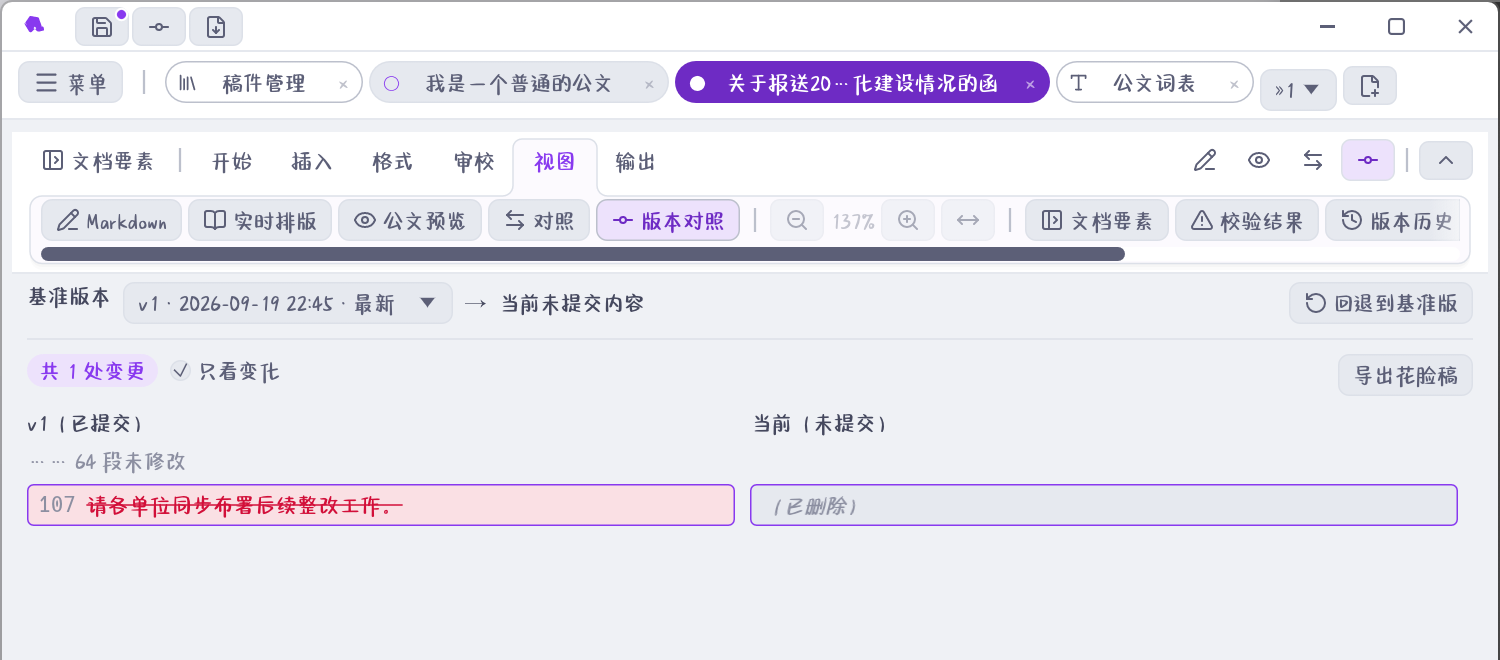
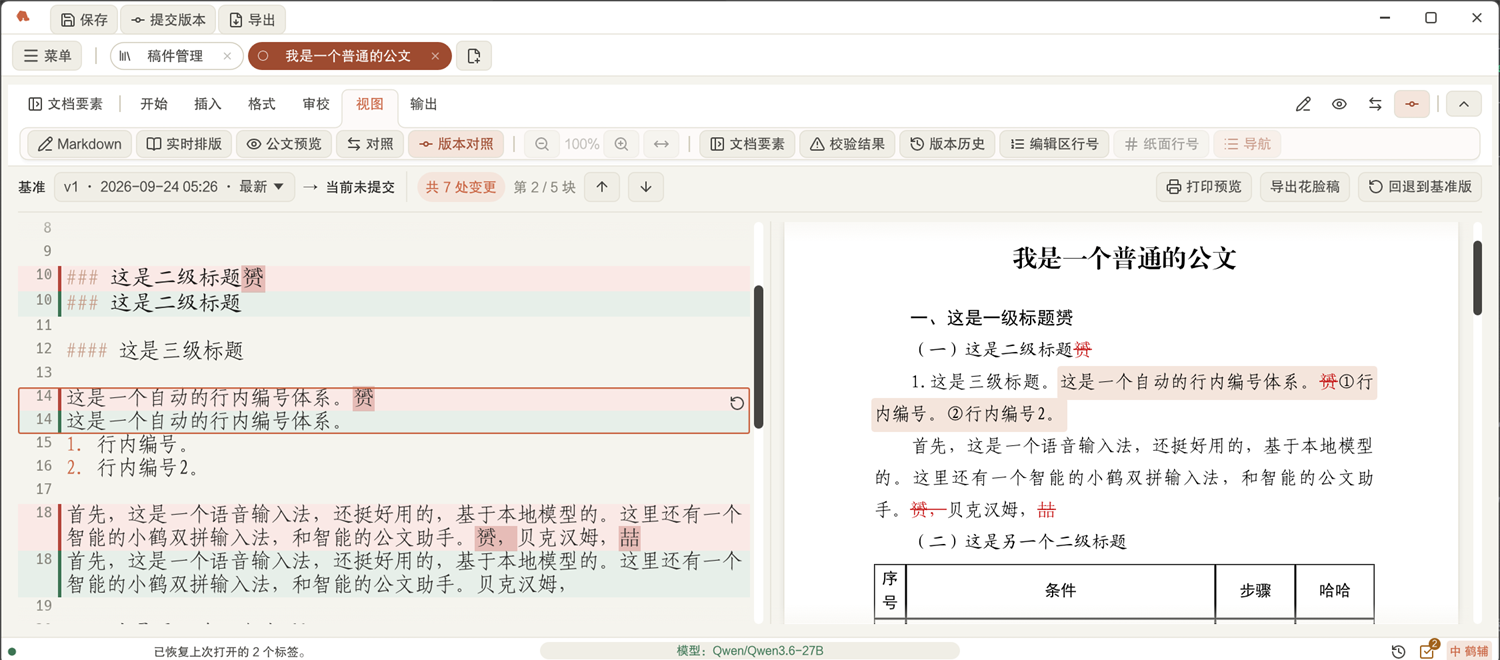
docs: 同步 README 与使用帮助至 v0.6.5
- 内嵌帮助 assets/help/ 落后于 docs/help/ 副本三个文件（居中与居右、
  网络代理两节只在 docs 侧），本次逐字同步；
- 版本对照与花脸稿：10-versions 重写两节并换新界面截图，02-ui、06-editor、
  07-ribbon 的视图表述对齐，04-workflow、c-glossary 的删线/方框说法同步，
  a-shortcuts 补 F7 / Shift+F7；
- 11-export 新增 PDF 查看器一节，修正研究报告「不出 .docx」的旧说法；
- 19-manuscripts 补外部文本编码自动识别；
- 20-settings 更正为十三个分区、五摞分组（原写「分三组」且组名与界面不符）；
- README：版本管理、PDF 预览、导入、AI 三节更新，项目结构补 skills/，
  代码行数 9.7 万 → 10.9 万、测试数 1000+ → 1100+；
- docs/manual.md 第 20 章描述、docs/install.md 的 src/ime.rs 路径修正。

diff --git a/docs/release-notes/v0.6.5.md b/docs/release-notes/v0.6.5.md
@@ -1,0 +1,69 @@
+## 公文助手 v0.6.5
+
+本版本把「版本变更与花脸稿」改造推进到第 ③ 期：起草页的版本对照变成**左栏可编辑统一 diff + 右栏花脸稿预览**，改稿痕迹改为**红色直删除线 / 蓝色方框就地标注**，每个变更块可以一键还原。同一版里还落地了网络代理、AI 技能包、PDF 查看器单页翻页、正文居中 / 居右、导入编码自动识别等一批用户可见能力。
+
+### 版本对照与花脸稿（第 ① — ③ 期）
+
+- **花脸稿改为就地标注**。删掉的字**留在原位画红色直删除线**（`#C00000`，字本身也染红），新增的字**就地套蓝色方框**（`#1F4E9E`、0.5pt，框内保持正文色）；新增框**随正文断行**（跨行在行尾开口、整段新增只在首尾各一笔竖边）。删除的标题、列表项不再排成标题 / 列表行，避免自动编号重复。预览、Word、PDF 三端样式一致，并有「预览片段序列 = DOCX run 序列 = TeX 片段序列」的三方一致性测试锁住。
+- **新增视觉 diff 引擎**（`src/visual_diff/`，纯函数，不碰存储与 UI）：jieba 分词，日期、数字 + 单位、文号、公式各作一个整体 token；先抵消相邻「删 X、增 X」，再按区域吸收夹缝、在句读处切开、做整句归并；段落移动识别并出「移来」注记；标题与列表编号不参与比较；表格逐格 / 整行 / 整表；公文要素整体替换。除逐条规则的单元测试外，另有生成式不变式——400 组真实公文句子随机增删改，逐字核对「去新增 == 旧版、去删除 == 新版」。
+- **版本对照视图重做**。左栏**既是编辑器也是 diff**：删除 / 被改写的旧行以红底只读行画在原位（布局器在 `TextEdit` 的 galley 里开空隙塞进去），新增 / 改写后的行铺绿底，真正改掉的字再加深；行号槽写新 / 旧行号与增删色条；只改空行也算一处变更，显示淡色「（空行）」。每个变更块右上角出「**还原**」，一键换回基准版内容，`Ctrl+Z` 一次撤回。右栏是**花脸稿预览**，与导出 PDF / Word 吃同一份带哨兵 Markdown，「预览 = 导出」由构造保证。
+- **两栏联动与工具栏**：点左栏变更 → 右栏滚到对应块并常亮，双击切回 Markdown 源码定位；点右栏带标注的块 → 左栏聚焦；悬停互相淡色高亮；`F7` 下一处、`Shift+F7` 上一处，首尾循环。工具栏含基准版下拉、`共 N 处变更`、`第 X / N 块`、**回退到基准版**（二次确认）、**导出花脸稿**、**打印预览**（后台真编译 PDF，用内置查看器打开，不在导出目录留文件）；左栏顶部另有「要素变化」卡片。**已发布 / 归档的稿件只读**，左栏换成只读统一视图（多一个「折叠未改动」，导航按行计）。
+- **边改边看不卡**。基准快照与备注只在换稿件 / 换基准版时读一次库；代码 diff 按正文哈希与要素变化重算；花脸稿首帧同步算，之后后台线程 + 150ms 防抖，结果按「稿件 + 基准版 + 正文哈希」收取，过期结果丢弃。2000 段、100 个变更块的实测：进对照模式首帧 255ms（提速前 13.9s），打字帧中位 22ms。
+- **一轮真实稿件实测后的修正**（括号里是新增的回归测试）：移动识别混用下标导致越界闪退；研究报告 TeX 后处理的「新增里带行内公式编译失败 / 加粗只粗第一个字 / 改过的独立公式印出源码」三处；删除侧的公式被转义成字面字符；研究报告 Word 标记在加粗、公式处中断；PDF 里删掉的字是黑色；加 / 删一个标题把下面没动的正文整段删了又加；远处删一段与增一段被拼成一处整句替换；新增框竖边与字断开到两行、四角合不上。
+
+### 网络代理
+
+- **设置页新增「网络代理」分区**（智能助手组）。起草、文字复核、知识库 embedding / rerank 与模型探测统一走 `src/net.rs` 构建的客户端，代理只在一处生效。三种连接方式：**直连**（环境变量也不认）、**跟随系统**（默认，先读 `HTTPS_PROXY` / `HTTP_PROXY` / `ALL_PROXY`，没设再读 Windows 系统代理；不支持 PAC）、**自定义代理**（`http`、`https`、`socks4`、`socks4a`、`socks5`、`socks5h`，可带用户名密码，另有「不走代理」的域名 / IP / 网段列表）。
+- **本机地址始终直连**（`localhost`、`127.0.0.0/8`、`::1`），本地 LM Studio / Ollama 不受代理影响；自定义代理没填地址时直接报错，不静默退回直连；代理改完不必保存就能点「测试连接」验证。设置版本对比里地址中的密码打码。
+
+### AI 技能包（Agent Skill）
+
+- **把起草页的 Markdown 公文子集、七种文种的正文规则、行文规范、各文种模板与一个自检脚本打成 `gongwen-markdown` 技能包**，装进外部 AI 工具后，它们写出的 `.md` 可以直接粘到起草页，预览与导出与手写稿件完全一样。设置页「上手指引」可导出单文件 `gongwen-markdown.skill`（zip）或技能文件夹，安装包里也随附一份（macOS 在应用包的 `Contents/Resources/skills/`）；帮助文档给出 Claude Code、Codex、OpenCode、pi 等工具的 skills 目录对照表。
+- 文档锚点语法改为 `{#id}`、行内脚注改为 `[^id]:(内容)`；`skill_pack::FILES` 登记新增文件，测试检查文档与清单两边一致。
+
+### 研究报告：目录与页码
+
+- **目录改由 `<!-- [目录] -->` 标记触发**（研报分区新增「目录」按钮，已在稿中则不重复插入），排在标记所在位置、另起一页，**单用大写罗马页码 I、II、III**，不占正文页号。目录插在摘要与正文之间时，**摘要改用小写罗马页码 i、ii、iii**，目录之后正文从 1 起；目录在最前时正文从 1 起；目录在正文中间时接着目录之前的页号数。AI 润色提示同步要求原位保留目录标记，公文路径忽略该标记。
+- **Word 版补齐页码**，与 PDF 同一套分节编号：封面不编页码，各节页脚居中「— N —」（四号），目录大写罗马、摘要小写罗马、正文阿拉伯；目录改写成段落里的 TOC 域（打开后按提示更新域即可生成条目）。目录在正文中间时页码靠域公式接续，Microsoft Word 能正确显示，LibreOffice 等不支持嵌套域公式的软件显示不对。
+
+### 排版与编辑器
+
+- **正文支持居中与居右整行标记**（`<!-- [居中] -->` / `<!-- [居右] -->`，也认 `右对齐` 与英文 `center` / `right`）：标记下方**直到空行**为止逐行成行、不缩进，只认行内格式；功能区「格式」分区新增「居中」「居右」按钮，选中几行即插标记、再点取消，光标在区内按钮亮起。预览、Word、PDF 三处排法一致，各文种（含红头呈批件、研究报告）都支持。
+- **研究报告导出支持反斜杠转义**：`\_`、`\*` 不再印成 `\textbackslash{}`，`\$价格$` 不再被拆成多余反斜杠加一个公式；行内公式的配对规则与起草页预览对齐，行内 `$$x$$` 整体按文本处理。anydoc 0.2 导入的 Word 正文带 `\$` 这类转义，此前最容易碰到。
+- **anydoc 升级到 0.2.4**：导入 Word / PowerPoint / OpenDocument / RTF 时公式转成 `$…$` 行内与 `$$` 块（0.1.7 整个丢掉且不报错，正是研究报告支持的写法）；表格数字按单元格显示格式输出（`0.1234` → `12.3%`、`25000` → `25,000`）；Markdown 转义更克制。
+
+### PDF 查看器
+
+- **新增单页翻页模式**，与「连续」并列：一屏一页，**窗口够宽时从左到右并排多页**（最多 6 页），翻页按整屏步进。触控板滑过一格才翻页（零头会清掉），鼠标滚轮一格一页，另有 `PageUp` / `PageDown` 与方向键；翻页后短时间内屏蔽残余平滑滚动，免得新页一出来就被余量带着走。
+- 渲染仍是多线程：文件只读一次、解析惰性，一页要一两秒的重页不堵住后面的轻页；纹理总量设上限（256 MiB）并按最近使用淘汰，138 页的扫描件不会把显存吃光。
+
+### 导入与工程
+
+- **外部文本文件自动识别编码**：有 BOM 按 BOM（UTF-8 / UTF-16LE / UTF-16BE），整份是合法 UTF-8 就按 UTF-8，否则交给 `chardetng` 判定（顶级域提示给 `cn`，GBK 与 Big5 拿不准时偏向 GBK）。导入 txt / csv / md、研究报告文件夹合并、frontmatter 与表单里选的 BibTeX、知识库 Markdown 导入、辅码表导入都走这里——GBK、UTF-16 的老文件不必先另存为 UTF-8。程序自己写出的配置、TeX 与埋点仍按 UTF-8 读，不被「猜」掩盖真损坏。
+- **校对提速**：字面词条按写法去重后编成 Aho-Corasick 自动机，正文只扫一遍即拿到全部命中，同一写法挂多个条目时逐条过前后文条件；结果与逐条扫描逐项一致（新增以旧实现为对照的 matcher 测试），自动机构建失败时退回逐条扫描。
+- **版本 diff 提速**：手写 LCS 换成 `similar` 的 Myers 实现（线性内存，每次设 200ms 期限），删掉 O(n·m) 二维表与「超预算整段退化成删 + 增」的分支——长段落上也只标真正改动的字。
+- **本地 post-commit 钩子**：`scripts/install-git-hooks.sh` 装好后每次提交自动跑 `cargo build --release --locked`（Linux 主机自动加 `--no-default-features --features linux-portal-dialogs`），失败只告警不阻塞提交。
+- `fix(scripts)`：打包脚本在缺 `Get-FileHash` 的精简镜像（本机 PowerShell 5.1 就是）上加 .NET SHA-256 兜底，并给脚本加 UTF-8 BOM，避免 `-File` 模式下按无 BOM 解析报错。
+- `feat(ime)`：新增 `ime-builtin-xiaohe` 编译开关（**默认关闭**）。开启时设置页「输入法」多一个「使用内置示例小鹤辅码」按钮，按下弹二次确认、明确告知版权约束并要求使用者声明已从方案作者处取得授权，确认后才复制到配置目录并加载，绝不在启动时自动加载。**对外发布的构建仍不含辅码表**。
+
+### 文档
+
+- README：版本管理一节改写为「左栏可编辑统一 diff + 右栏花脸稿预览」「删字红色删除线 / 增字蓝色方框」；PDF 预览补单页翻页与并排多页；导入补编码自动识别；AI 一节补 AI 技能包与网络代理；项目结构补 `skills/` 一行，代码行数「约 9.7 万」→「约 10.9 万」、测试数「1000+」→「1100+」。
+- 使用帮助：`10-versions.md` 重写「版本对照」与「花脸稿」两节（可编辑 diff、逐块还原、两栏联动与 `F7` / `Shift+F7`、红色直删除线与蓝色方框、工具栏各项、只读稿件行为），并换上按新界面重截的截图（`assets/help/images/ui-versions.png` 与 `docs/images/readme/05-versions.png` 同步更新）；`06-editor.md`、`02-ui.md`、`07-ribbon.md` 的版本对照表述对齐；`11-export.md` 新增「PDF 查看器」一节、修正研究报告「不出 `.docx`」的旧说法；`19-manuscripts.md` 补编码识别；`20-settings.md` 更正为十三个分区、五摞分组（原写「分三组」且组名与界面不符）并保留网络代理一节；`04-workflow.md`、`c-glossary.md` 的删线 / 方框说法同步；`a-shortcuts.md` 新增版本对照快捷键 `F7` / `Shift+F7`。
+- `docs/manual.md` 第 20 章描述改「十三个分区」；`docs/install.md` 修正 `src/ime.rs` → `src/ime/cursor.rs`。
+- 修掉一处发布前就存在的隐患：应用内嵌的 `assets/help/`（`include_str!` 打进二进制）落后于 `docs/help/` 副本三个文件——「居中与居右」两节、「网络代理」一节只加在 docs 侧，用户实际打开的应用内帮助看不到。本版同步，两道机械检查（副本逐字一致、章节口径 24 = 正文 21 章 + 附录 3 篇）通过。
+
+### 质量检查
+
+- 三平台 CI 门禁（`cargo fmt --all -- --check`、`cargo clippy --locked --all-targets -- -D warnings`、`cargo test --locked --all-targets --no-fail-fast`）全部通过；本地实测 **1186 条用例通过、31 条 ignored**（含须完整内置 Tectonic runtime 才跑的 LaTeX 编译回归测试）。
+- 本版新增的关键测试：生成式不变式 `generated_edits_always_restore_both_sides`（400 组随机增删改，逐字核对两侧还原）、`random_edits_revert_back_to_the_exact_base_text`（2000 组随机改稿按随机顺序逐块还原，逐字节回到基准）、「预览 = DOCX = TeX」三方一致性、逐块还原与 `Ctrl+Z` 撤回、过期基准的花脸稿被丢弃、研究报告目录与分节页码、mdx 反斜杠转义端到端、导入编码识别。
+
+### 下载
+
+- Windows x64 安装程序
+- Linux ARM64 Debian 软件包（兼容 GLIBC 2.28）
+- Linux AMD64 Debian 软件包（兼容 GLIBC 2.28）
+- macOS ARM64 DMG
+- Linux ARM64 / AMD64 Omarchy 便携包与 PKGBUILD
+
+各安装包均附带 SHA-256 校验文件。

diff --git a/assets/help/10-versions.md b/assets/help/10-versions.md
@@ -16,8 +16,6 @@
 
 右下状态栏点「历史」开版本历史抽屉：
 
-![版本对照](images/ui-versions.png)
-
 - 列出所有已提交版本，按版本号倒序；
 - 每条显示版本号、名称、备注、时间；
 - 悬停显示改动摘要（字数增减、命中项变化）；
@@ -27,14 +25,28 @@
 
 ## 版本对照
 
-任选两版比增删：
+「版本对照」是起草页的**第五个视图图标**：左栏改字、右栏看花脸稿，不用弹窗。对照范围是任意两版——基准默认跟**最新已提交版本**走，提交一版之后自动换过去，也可在工具栏的「基准」下拉里选更早的版本，看从那一版至今累计改了什么。
 
-- 左边是旧版（或最新已提交版本），右边是当前未提交内容；
-- 删的字标红、加的字标绿，改写算作一删一加；
-- 「版本对照」视图模式（第五个视图图标）直接在起草页看左右对照，不用弹窗；
-- 对照窗可跳转到改动处，逐处看。
+![版本对照：左栏是可编辑的统一 diff，右栏是花脸稿预览](images/ui-versions.png)
 
-对照范围可以是任意两个版本号，不限于「最新 vs 当前」。
+**左栏是编辑器，也是 diff**：
+
+- 删除 / 被改写的**旧行以红底只读行显示在原位**（在行间开缝放进去），新增 / 改写后的行铺**绿底**，真正改掉的字再加深一档；
+- 行号槽写新 / 旧行号与增删色条；只改了空行也算一处变更，显示淡色「（空行）」；
+- 光标停在哪个变更块，哪块就是焦点；悬停或聚焦的变更块右上角出「**还原**」按钮，点一下把这一块换回基准版内容（`Ctrl+Z` 一次撤回）。
+
+**右栏是花脸稿预览**，与导出 PDF / Word 吃的是同一份数据，「预览 = 导出」由构造保证。花脸稿要跑分词，停手 0.15 秒后才在后台重算，右栏允许比输入晚一拍。
+
+两栏联动：
+
+- 点左栏某处变更 → 右栏滚到对应块并常亮；双击 → 切回 Markdown 源码定位；
+- 点右栏带标注的块 → 左栏聚焦并滚过去；
+- 悬停任一侧，另一侧淡色高亮；
+- `F7` 下一处、`Shift+F7` 上一处，首尾循环。
+
+工具栏其余项：`共 N 处变更`、`第 X / N 块`、**回退到基准版**（二次确认，用基准版覆盖当前稿件）、**导出花脸稿**、**打印预览**（后台真编译一遍 PDF，在内置查看器里打开，不在导出目录留文件）。左栏顶部另有一张**要素变化**卡片，按字段列出单位、文号、日期等改动。
+
+**已发布 / 归档的稿件只读**：左栏换成只读的统一视图，多了「折叠未改动」，导航按逐行变更算（工具栏会写「处」而不是「块」）。
 
 ## 花脸稿
 
@@ -42,12 +54,12 @@
 
 | 改动 | 呈现 |
 |---|---|
-| 删掉的字 | 加**波浪线** |
-| 新增的字 | 套**方框** |
+| 删掉的字 | 留在原位画**红色直删除线**，字本身也是红色（`#C00000`） |
+| 新增的字 | 就地套**蓝色方框**（`#1F4E9E`、0.5pt），框内文字保持正文色 |
 
-一张纸就能给领导签批，不用旁注「此处删了 X 字」。
+新增框**随正文断行**：跨行时在行尾开口、下一行接着画，左右竖边只在整段新增的首尾各一笔。一张纸就能给领导签批，不用旁注「此处删了 X 字」。
 
-导出入口在版本对照窗：「导出 PDF」「导出 Word」「两者都导」。花脸稿与定稿导出**分开记账**，不会覆盖定稿成品。
+导出入口在版本对照工具栏的「导出花脸稿」菜单：「导出 PDF」「导出 Word」「两者都导」。花脸稿与定稿导出**分开记账**，不会覆盖定稿成品。
 
 | 产物 | 文件名 | 用途 |
 |---|---|---|

diff --git a/docs/help/10-versions.md b/docs/help/10-versions.md
@@ -16,8 +16,6 @@
 
 右下状态栏点「历史」开版本历史抽屉：
 
-![版本对照](images/ui-versions.png)
-
 - 列出所有已提交版本，按版本号倒序；
 - 每条显示版本号、名称、备注、时间；
 - 悬停显示改动摘要（字数增减、命中项变化）；
@@ -27,14 +25,28 @@
 
 ## 版本对照
 
-任选两版比增删：
+「版本对照」是起草页的**第五个视图图标**：左栏改字、右栏看花脸稿，不用弹窗。对照范围是任意两版——基准默认跟**最新已提交版本**走，提交一版之后自动换过去，也可在工具栏的「基准」下拉里选更早的版本，看从那一版至今累计改了什么。
 
-- 左边是旧版（或最新已提交版本），右边是当前未提交内容；
-- 删的字标红、加的字标绿，改写算作一删一加；
-- 「版本对照」视图模式（第五个视图图标）直接在起草页看左右对照，不用弹窗；
-- 对照窗可跳转到改动处，逐处看。
+![版本对照：左栏是可编辑的统一 diff，右栏是花脸稿预览](images/ui-versions.png)
 
-对照范围可以是任意两个版本号，不限于「最新 vs 当前」。
+**左栏是编辑器，也是 diff**：
+
+- 删除 / 被改写的**旧行以红底只读行显示在原位**（在行间开缝放进去），新增 / 改写后的行铺**绿底**，真正改掉的字再加深一档；
+- 行号槽写新 / 旧行号与增删色条；只改了空行也算一处变更，显示淡色「（空行）」；
+- 光标停在哪个变更块，哪块就是焦点；悬停或聚焦的变更块右上角出「**还原**」按钮，点一下把这一块换回基准版内容（`Ctrl+Z` 一次撤回）。
+
+**右栏是花脸稿预览**，与导出 PDF / Word 吃的是同一份数据，「预览 = 导出」由构造保证。花脸稿要跑分词，停手 0.15 秒后才在后台重算，右栏允许比输入晚一拍。
+
+两栏联动：
+
+- 点左栏某处变更 → 右栏滚到对应块并常亮；双击 → 切回 Markdown 源码定位；
+- 点右栏带标注的块 → 左栏聚焦并滚过去；
+- 悬停任一侧，另一侧淡色高亮；
+- `F7` 下一处、`Shift+F7` 上一处，首尾循环。
+
+工具栏其余项：`共 N 处变更`、`第 X / N 块`、**回退到基准版**（二次确认，用基准版覆盖当前稿件）、**导出花脸稿**、**打印预览**（后台真编译一遍 PDF，在内置查看器里打开，不在导出目录留文件）。左栏顶部另有一张**要素变化**卡片，按字段列出单位、文号、日期等改动。
+
+**已发布 / 归档的稿件只读**：左栏换成只读的统一视图，多了「折叠未改动」，导航按逐行变更算（工具栏会写「处」而不是「块」）。
 
 ## 花脸稿
 
@@ -42,12 +54,12 @@
 
 | 改动 | 呈现 |
 |---|---|
-| 删掉的字 | 加**波浪线** |
-| 新增的字 | 套**方框** |
+| 删掉的字 | 留在原位画**红色直删除线**，字本身也是红色（`#C00000`） |
+| 新增的字 | 就地套**蓝色方框**（`#1F4E9E`、0.5pt），框内文字保持正文色 |
 
-一张纸就能给领导签批，不用旁注「此处删了 X 字」。
+新增框**随正文断行**：跨行时在行尾开口、下一行接着画，左右竖边只在整段新增的首尾各一笔。一张纸就能给领导签批，不用旁注「此处删了 X 字」。
 
-导出入口在版本对照窗：「导出 PDF」「导出 Word」「两者都导」。花脸稿与定稿导出**分开记账**，不会覆盖定稿成品。
+导出入口在版本对照工具栏的「导出花脸稿」菜单：「导出 PDF」「导出 Word」「两者都导」。花脸稿与定稿导出**分开记账**，不会覆盖定稿成品。
 
 | 产物 | 文件名 | 用途 |
 |---|---|---|

diff --git a/assets/help/06-editor.md b/assets/help/06-editor.md
@@ -10,7 +10,7 @@
 | 实时排版 | 非活动行按公文版式排，**仅光标行显示 Markdown 标记** | 边写边看版式，不用来回切 |
 | 版式预览 | 按公文字体与行距渲染的纸面效果 | 对版、看成品、检查页眉页脚 |
 | 分栏 | 左源码、右版式并排 | 对照着改 |
-| 版本对照 | 左最新提交版本，右当前未提交内容 | 看这次改了什么 |
+| 版本对照 | 左栏 diff（可改字、可逐块还原），右栏花脸稿预览 | 看这次改了什么，顺手就地还原 |
 
 > **提示** 不熟 Markdown 的人可以先开**实时排版**：只在光标行看到 `#`、`**` 这些符号，其他行已经是排好的公文样子。写完切到版式预览验收。
 
@@ -61,6 +61,30 @@
 - 标记行只管**紧邻**的那张表格，中间隔了正文就不生效；删掉这行即恢复成普通表格。
 
 编号与合并由程序生成，**源码里看不到**：预览（实时排版、分栏）与导出的 Word / PDF 里才有。这与 `##` 标题的自动编号是同一套做法。各文种（含红头呈批件、研究报告）都支持。
+
+### 居中与居右
+
+正文默认首行缩进、两端对齐。个别行要居中或靠右（题词、引文出处、特殊落款之类），在它们上面加一行标记：
+
+```markdown
+<!-- [居中] -->
+居中的第一行
+居中的第二行
+
+<!-- [居右] -->
+——摘自《某某讲话》
+
+这里空过一行，恢复正常排版。
+```
+
+- 标记下方**直到空行**为止的每一行都按标记排：居中是整行在版心居中，居右是整行贴右边，都**不缩进**；
+- 区里**每行单独成一行**，不会像正文那样把相邻几行接成一段；
+- 区里只认行内格式（加粗、括号楷体），`#`、`1.`、表格竖线都当普通文字；
+- 区里再写一个标记，从那一行起就换成新的对齐方式；标记行本身不印到纸上；
+- 也可以写成 `<!-- [右对齐] -->`，或英文的 `center` / `right`；
+- 不用手敲：选中这几行，点「格式」分区的「居中」或「居右」按钮即可，再点一次取消。
+
+预览、Word、PDF 三处排法一致。各文种（含红头呈批件、研究报告）都支持。
 
 ### 公文构件
 

diff --git a/assets/help/20-settings.md b/assets/help/20-settings.md
@@ -1,15 +1,13 @@
-## 十二个分区
+## 十三个分区
 
-「设置」页左栏十二项，分三组：
+「设置」页左栏十三项，按「配什么」分成五摞：
 
 | 组 | 分区 |
 |---|---|
-| 模型 | 本地模型服务、AI 文字复核、知识库 |
-| 输出 | 输出与录入、导出格式 |
-| 外观 | 界面主题、字体、标题与列表编号 |
-| 保存 | 保存与现场 |
-| 规则 | 密级规则 |
-| 输入 | 输入法 |
+| 智能助手 | 本地模型服务、AI 文字复核、知识库、网络代理 |
+| 外观 | 界面主题、字体、输入法 |
+| 公文排版 | 标题与列表编号、密级规则 |
+| 文件与现场 | 输出与录入、导出格式、保存与现场 |
 | 帮助 | 上手指引 |
 
 主题、纸面与字体改完**立即生效**；其余各项要**保存**后才写入配置文件。
@@ -41,6 +39,25 @@
 ## 知识库
 
 RAG 三项配置（Embedding、Rerank、启用开关）。换 embedding 模型会提示重建索引。见 [知识库与问答](chapter:18-knowledge)。
+
+## 网络代理
+
+起草、文字复核、知识库的 embedding / rerank 请求都走这里设的通道。
+
+| 连接方式 | 说明 |
+|---|---|
+| 直连 | 不走任何代理，环境变量里设的也不认 |
+| 跟随系统 | **默认**。先看 `HTTPS_PROXY` / `HTTP_PROXY` / `ALL_PROXY` 环境变量，没设再读 Windows「设置 → 网络和 Internet → 代理」里的手动代理；不支持 PAC 脚本 |
+| 自定义代理 | 填代理地址，如 `http://127.0.0.1:7890`、`socks5h://127.0.0.1:1080` |
+
+- 协议支持 `http`、`https`、`socks4`、`socks4a`、`socks5`、`socks5h`，没写协议按 `http`
+- 需要认证时写成 `socks5://用户名:密码@主机:端口`
+- `socks5h` 由代理端解析域名，本机 DNS 不可靠时用它
+- 「不走代理」填逗号分隔的域名、IP 或网段，如 `intranet.gov.cn, 10.0.0.0/8`
+
+> **注意** 本机地址（`localhost`、`127.0.0.1`）**始终直连**，本地 LM Studio / Ollama 不受代理影响。
+
+代理改完**立即生效**，可以直接点「测试连接」验证，再保存写入配置文件。
 
 ## 输出与录入
 

diff --git a/assets/help/11-export.md b/assets/help/11-export.md
@@ -81,8 +81,8 @@
 
 研究报告的产物更多，见 [研究报告专章](chapter:08-research)。要点：
 
-- **不出 `.docx`**；
-- 除主 `.tex` 外还有 `md2tex.cls`、`data/chapterXX.tex`、`appendix/appendixXX.tex`、`references.bib`；
+- **除主 `.tex` 外还有** `md2tex.cls`、`data/chapterXX.tex`、`appendix/appendixXX.tex`、`references.bib`；
+- 勾选 Word 时走研究报告自己的 mdx 转换器，封面、目录与分节页码与 PDF 对齐；
 - 数学公式由 TeX 链路排版，预览字形与导出不同属正常。
 
 ## 批量导出 PDF
@@ -104,6 +104,21 @@ PDF 查看器里有「打印」按钮：
 - 结果经状态栏回报。
 
 双面打印的页码位置在要素表单「双面页码」开关里配。
+
+## PDF 查看器
+
+导出的成品与归档的盖章扫描件都在标签页里用**内置查看器**打开——纯 Rust 渲染，不依赖系统 PDF 阅读器。工具栏：
+
+| 控件 | 说明 |
+|---|---|
+| 页码框 | 直接跳到第 N 页（右边写总页数） |
+| **连续** | 默认。所有页上下相连，自由滚动 |
+| **单页** | 按页翻看，滚轮一格翻一屏；**窗口够宽时从左到右并排多页**（最多 6 页）。也可用 `PageUp` / `PageDown`、方向键翻页 |
+| 缩放 | `−` / `+`、百分比、`100%`、`适合宽度`、`适合页面`；按住 `Ctrl` 滚动滚轮同样缩放 |
+| 打印 | 见上一节 |
+| 系统打开 | 复杂或加密的外来 PDF 走系统程序兜底；「在文件管理器中定位」直接指到文件 |
+
+打开时先取全部页面的点尺寸，滚动条一开始就是准的；只有视口内的页才光栅化，一页要一两秒的重页由几条渲染线程分担，不堵住后面的轻页。
 
 ## 导出闸门只有一道
 

diff --git a/docs/help/11-export.md b/docs/help/11-export.md
@@ -81,8 +81,8 @@
 
 研究报告的产物更多，见 [研究报告专章](chapter:08-research)。要点：
 
-- **不出 `.docx`**；
-- 除主 `.tex` 外还有 `md2tex.cls`、`data/chapterXX.tex`、`appendix/appendixXX.tex`、`references.bib`；
+- **除主 `.tex` 外还有** `md2tex.cls`、`data/chapterXX.tex`、`appendix/appendixXX.tex`、`references.bib`；
+- 勾选 Word 时走研究报告自己的 mdx 转换器，封面、目录与分节页码与 PDF 对齐；
 - 数学公式由 TeX 链路排版，预览字形与导出不同属正常。
 
 ## 批量导出 PDF
@@ -104,6 +104,21 @@ PDF 查看器里有「打印」按钮：
 - 结果经状态栏回报。
 
 双面打印的页码位置在要素表单「双面页码」开关里配。
+
+## PDF 查看器
+
+导出的成品与归档的盖章扫描件都在标签页里用**内置查看器**打开——纯 Rust 渲染，不依赖系统 PDF 阅读器。工具栏：
+
+| 控件 | 说明 |
+|---|---|
+| 页码框 | 直接跳到第 N 页（右边写总页数） |
+| **连续** | 默认。所有页上下相连，自由滚动 |
+| **单页** | 按页翻看，滚轮一格翻一屏；**窗口够宽时从左到右并排多页**（最多 6 页）。也可用 `PageUp` / `PageDown`、方向键翻页 |
+| 缩放 | `−` / `+`、百分比、`100%`、`适合宽度`、`适合页面`；按住 `Ctrl` 滚动滚轮同样缩放 |
+| 打印 | 见上一节 |
+| 系统打开 | 复杂或加密的外来 PDF 走系统程序兜底；「在文件管理器中定位」直接指到文件 |
+
+打开时先取全部页面的点尺寸，滚动条一开始就是准的；只有视口内的页才光栅化，一页要一两秒的重页由几条渲染线程分担，不堵住后面的轻页。
 
 ## 导出闸门只有一道
 

diff --git a/assets/help/02-ui.md b/assets/help/02-ui.md
@@ -53,7 +53,7 @@
 | 公文词表 | 从稿件收词，导出输入法码表 |
 | AI 管理 | 优化提示词库与内置输出标准 |
 | 知识库 | 导入历史成稿、建索引、检索与问答 |
-| 设置 | 模型、字体、主题、密级、输入法等十二个分区 |
+| 设置 | 模型、字体、主题、密级、输入法等十三个分区 |
 | 使用帮助 | 你正在读的这份手册（`F1` 随时打开） |
 
 ## 五种视图
@@ -66,7 +66,7 @@
 | 实时排版 | 非活动行按公文版式排，只有光标行显示标记 | 边写边看版式 |
 | 版式预览 | 按公文字体行距渲染的纸面效果 | 对版、看成品 |
 | 分栏 | 左源码、右版式 | 对照着改 |
-| 版本对照 | 左最新提交版本、右当前未提交 | 看自己改了什么 |
+| 版本对照 | 左栏 diff（可改字、可逐块还原）、右栏花脸稿预览 | 看自己改了什么 |
 
 细节见 [拟稿：源码编辑与五种视图](chapter:06-editor)。预览区右缘还有一条**刻度条导航**，鼠标靠近会推出大纲板，点标题跳段落。
 

diff --git a/docs/help/02-ui.md b/docs/help/02-ui.md
@@ -53,7 +53,7 @@
 | 公文词表 | 从稿件收词，导出输入法码表 |
 | AI 管理 | 优化提示词库与内置输出标准 |
 | 知识库 | 导入历史成稿、建索引、检索与问答 |
-| 设置 | 模型、字体、主题、密级、输入法等十二个分区 |
+| 设置 | 模型、字体、主题、密级、输入法等十三个分区 |
 | 使用帮助 | 你正在读的这份手册（`F1` 随时打开） |
 
 ## 五种视图
@@ -66,7 +66,7 @@
 | 实时排版 | 非活动行按公文版式排，只有光标行显示标记 | 边写边看版式 |
 | 版式预览 | 按公文字体行距渲染的纸面效果 | 对版、看成品 |
 | 分栏 | 左源码、右版式 | 对照着改 |
-| 版本对照 | 左最新提交版本、右当前未提交 | 看自己改了什么 |
+| 版本对照 | 左栏 diff（可改字、可逐块还原）、右栏花脸稿预览 | 看自己改了什么 |
 
 细节见 [拟稿：源码编辑与五种视图](chapter:06-editor)。预览区右缘还有一条**刻度条导航**，鼠标靠近会推出大纲板，点标题跳段落。
 

diff --git a/assets/help/19-manuscripts.md b/assets/help/19-manuscripts.md
@@ -47,13 +47,15 @@
 
 导入走 `anydoc` 转 Markdown，纯文本与 `.md` 直接读。转完**归一化**（换行统一、空白整理）后进起草页。图片会一并收进 `images/`，文档里存相对路径。
 
+外部的 txt / csv / md 会自动识别编码：有 BOM 按 BOM，整份是合法 UTF-8 按 UTF-8，否则交给编码探测（GBK 与 Big5 拿不准时偏向 GBK）——GBK、UTF-16 的老文件不必先另存为 UTF-8。程序自己写出的配置、TeX 与稿件库仍按 UTF-8 读。
+
 ## 版本
 
 提交版本、版本历史、对照、回退、花脸稿见 [版本、对照与花脸稿](chapter:10-versions)。要点：
 
 - 保存是「现在这样」，提交版本是「这一刻留档」；
 - 版本可回退，**回退不清历史**；
-- 花脸稿导出改稿痕迹（删波浪线、增方框）送审。
+- 花脸稿导出改稿痕迹（删字画红色删除线、增字套蓝色方框）送审。
 
 ## 盖章扫描件
 
